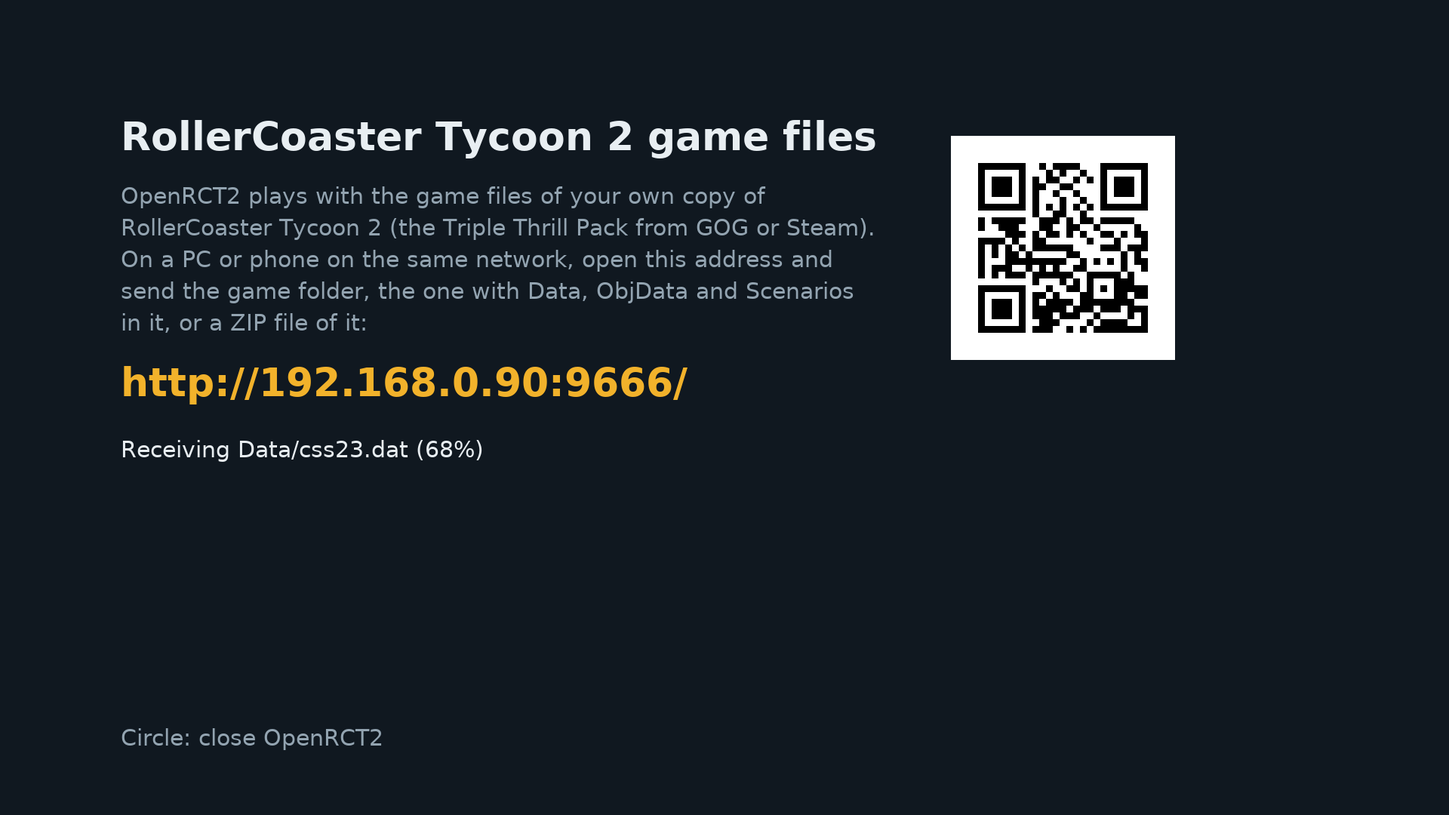
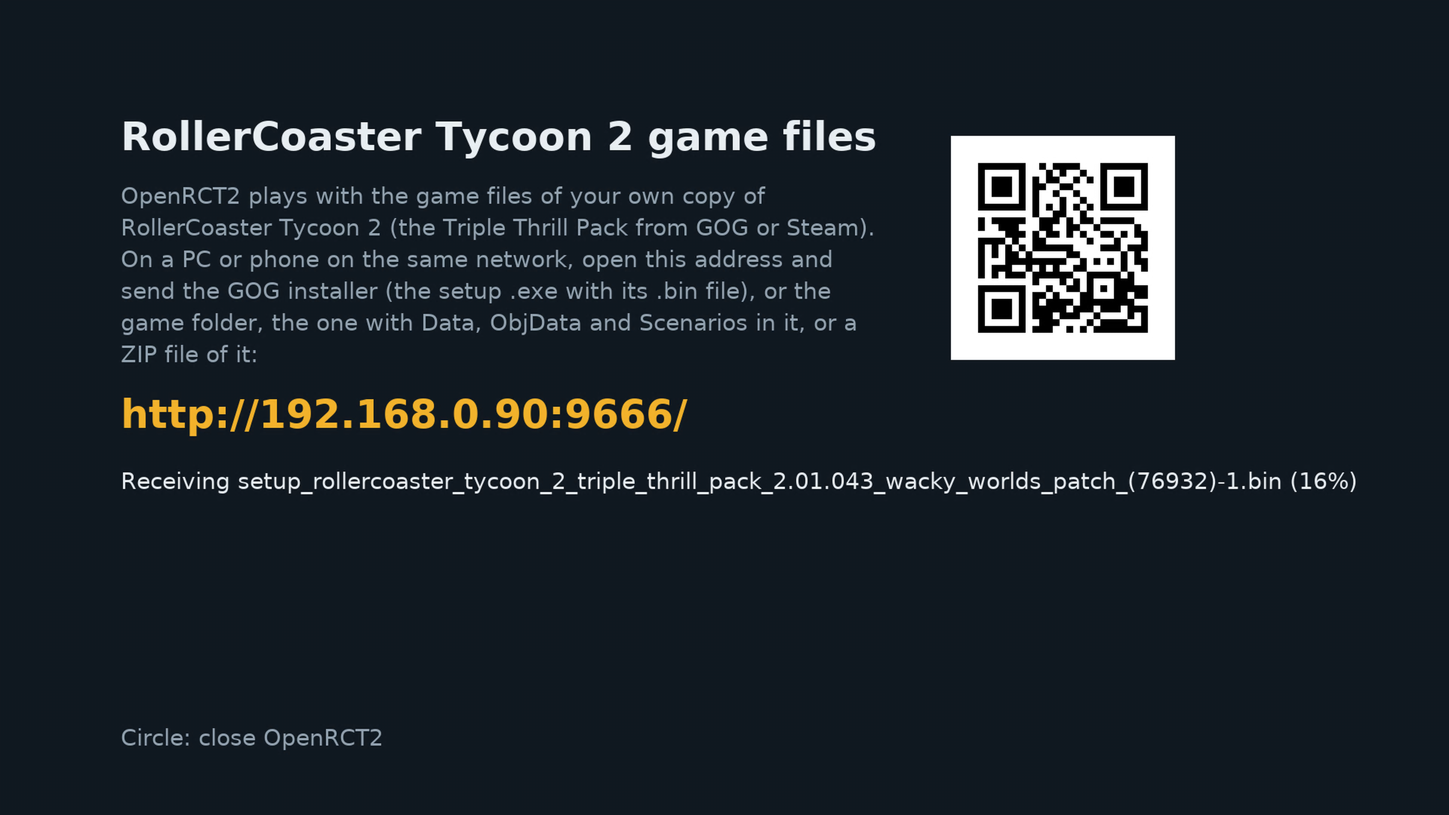
README, third-party notices, screenshots from the console, version 1.0.0
make release writes dist/PPSA99728.zip and its .sha256; the package carries THIRD_PARTY_NOTICES.md and liblzma's licence. contentVersion 01.000.000.

Changed region(s): [[0.0625, 0.3361, 0.9375, 0.6111], [0.6562, 0.1833, 0.8125, 0.4278], [0.5625, 0.3972, 0.5938, 0.4278]]

diff --git a/DEVELOPMENT.md b/DEVELOPMENT.md
@@ -10,7 +10,7 @@ from a PC (2457 files, 671 MB, in about 2.5 minutes), after which the game start
 played with the DualSense alone (Controls, below); console tests drove the menus, lists, tabs,
 radial menus, track and path building and scenery placement with it. Not yet confirmed on
 hardware: how the controls feel in a person's hands, typing in the IME dialog (it opens), a ZIP
-import, and an import from a phone's browser. The sound works (Rijad heard it, 2026-10-05). The
+import, and an import from a phone's browser. The sound works (heard on a TV, 2026-10-05). The
 controller is the only input: mice, USB keyboards and the TV remote are not read, and text comes
 from the on-screen keyboard.
 
@@ -22,15 +22,16 @@ from the on-screen keyboard.
 | `patches/openrct2/` | The port's changes to OpenRCT2 (`tools/export-patches.sh` writes them from the `ps5` branch) |
 | `patches/sdl/` | Changes to ps5-payload-dev's SDL (made in `.deps/sdl-dev`, a git copy, with `git format-patch`) |
 | `src/runtime/` | What every PS5 link gets (`libps5runtime.a`), the linker script, and lists for module stubs the SDK lacks |
-| `src/port/` | PS5 code compiled into the game: `main`, the import screen and its upload server and page, the console test harness |
+| `src/port/` | PS5 code compiled into the game: `main`, the import screen with its upload server and page and the GOG installer reader, the console test harness |
 | `sce_sys/` | `param.json` and the icon (the OpenRCT2 logo on a dark background) |
 | `test/` | Console test plans |
-| `screenshots/` | For showing the port: the title, the import screen and its page, a park (Six Flags Magic Mountain) with the button hints, both radial menus, a list moved through with the d-pad. Console captures halved (the game draws at 960x540 and doubles each pixel); the import screen at full size |
+| `screenshots/` | For showing the port, taken on the console on 2026-10-06: a looping coaster, wooden track built with the button hints, the park radial menu, the title, and the import screen receiving the GOG installer next to its page in a browser. PS5 screenshots (3840x2160 JPEG XR, decoded with WPF's `WmpBitmapDecoder`) halved to the game's 1920x1080; the page cropped to 16:9 |
 | `cmake/ps5.cmake` | CMake toolchain for the console |
 | `cmake/ps5-openrct2.cmake` | Hooked into OpenRCT2's project: adds `src/port`, qrcodegen, the generated headers and the static-only libraries |
 | `tools/ps5-cc`, `tools/ps5-c++`, `tools/ps5-link` | Compiler drivers for the console; any link produces a PS5 module |
 | `tools/build-*.sh`, `tools/package.sh` | Native tools, runtime, dependencies, host build, PS5 build, title folder |
 | `tools/deploy.py`, `console_test.py`, `send.py`, `klog.py`, `symbolize.sh` | Console side: upload, tests, sending game files, kernel log, crash frames |
+| `tools/test-inno.sh`, `inno-unpack.c` | The GOG installer reader built for the PC and checked against innoextract |
 | `docker/` | The build image |
 
 ## Build
@@ -56,8 +57,8 @@ update and looks for it in the data folder when there is no system documentation
    and the clean-room `libc.prx`.
 2. `tools/build-runtime.sh`: the CRT (the boilerplate's `app_crt.cpp`), `libps5runtime.a` and the
    system module stubs into `.deps/ps5`. Outputs are replaced only when they change.
-3. `tools/build-deps.sh`: zlib, libpng, zstd, libzip, Ogg, Vorbis, FLAC, nlohmann/json, ICU, SDL2
-   and qrcodegen, pinned and checked by SHA-256, into `.deps/ps5`. Each has a stamp in
+3. `tools/build-deps.sh`: zlib, libpng, zstd, libzip, liblzma (xz), Ogg, Vorbis, FLAC,
+   nlohmann/json, ICU, SDL2 and qrcodegen, pinned and checked by SHA-256, into `.deps/ps5`. Each has a stamp in
    `build/deps`; delete it to rebuild one (SDL after changing `patches/sdl`).
 4. `tools/build-ps5.sh`: the import screen's headers (`build/gen`: the page from
    `tools/embed-file.py`, the fonts from `tools/make-font.py`), then OpenRCT2 with
@@ -177,6 +178,10 @@ offers, instead of guessing from compile-only checks.
     `UiContext::Draw`, marking their area dirty each frame as the FPS counter does), and
     `WindowSceneryRaise`/`WindowSceneryCanRaise`: the controller's stepped version of holding Shift
     while placing scenery.
+13. While a radial menu is up: no pointer, no tooltips on its buttons, no park label under the
+    pointer (each could cover the name under the ring).
+14. The radial menus' disc and name band and the hints bar in the darkest shade twice over
+    (`paletteDarken3`; `paletteDarken2` read poorly on a TV), their text outlined.
 
 ## The port (`src/port`)
 
@@ -186,7 +191,7 @@ offers, instead of guessing from compile-only checks.
   selects SDL's software renderer (OpenRCT2 asks for an accelerated one), runs the import screen
   when the game files are missing, and runs OpenRCT2 with `/app0/data`, `/app0/rct2` and
   `/download0/user` (config, saves, caches; `downloadDataSize` 1024 MB).
-- `import_screen.c`, `upload.c`, `upload.html`: importing the game files (below).
+- `import_screen.c`, `upload.c`, `upload.html`, `inno.c`: importing the game files (below).
 - `console_test.c`, `pad_script.c`: the test harness (below).
 
 ## Controls
@@ -221,34 +226,70 @@ thumps when a piece is built.
 Settings: the game's Controls options, *Gamepad deadzone* and *Gamepad sensitivity*, apply to the
 pointer too (the sensitivity scales its speed: 1.5 is the default).
 
+The interface stays at twice its size (Display options, *UI scale*); larger was tried on 2026-10-06
+and dropped. RCT2's windows are laid out for a screen at least 480 lines tall, and OpenRCT2's
+footpath window needs about 525: at 2.5 (768x432) the ride construction window's Entrance button
+sits under the money panel and the footpath window's bridge, tunnel and area buttons fall below the
+screen; at 2.25 (853x480) the area button is still under the money panel. Any fractional scale also
+halves the frame rate (30 instead of 60): OpenRCT2 draws the screen at the next whole multiple and
+SDL's software renderer shrinks it with its linear filter. Scaling by area on the CPU in one pass
+(a window pixel across two screen pixels mixes them) brought it back to 60 at about 2 ms a frame,
+if a larger interface is ever wanted.
+
 ## Importing the game files
 
 When `/app0/rct2/Data/g1.dat` is missing, the title shows a screen with an address
-(`http://<console>:9666/`, or the next free port) and its QR code. The page there takes the
-RollerCoaster Tycoon 2 folder (chosen or dropped; only files below Data, ObjData, Scenarios,
-Tracks and Landscapes are sent) or a ZIP file of it (for phones, which cannot send folders), and
+(`http://<console>:9666/`, or the next free port) and its QR code. The page there takes the GOG
+installer (its setup `.exe` and `.bin` file, chosen or dropped together, or the download folder
+dropped), the RollerCoaster Tycoon 2 folder (chosen or dropped; only files below Data, ObjData,
+Scenarios, Tracks and Landscapes are sent) or a ZIP file of it (phones cannot send folders), and
 ends with `POST /done`. The server stores files below those folders only, each path part a plain
-name, as `<path>.upload` renamed when complete; the screen unpacks ZIP files with libzip under the
-same rules. The server handles one request at a time but keeps up to eight connections waiting
+name, as `<path>.upload` renamed when complete; ZIP files and the installer's `.exe` and `.bin`
+files go at the top of the game folder, under their own names. The screen unpacks ZIP files with
+libzip under the same rules, and the installer, once the page has finished, on a thread with
+`inno.c`, then deletes it (unless a `.bin` file is missing: sending it tries again).
+
+`inno.c` reads Inno Setup installers (Unicode, data versions 5.5.0 to 6.4), after innoextract's
+reading of the format: the offset table among the `.exe`'s resources, the CRC-checked,
+LZMA-compressed headers, the entries up to the file list, the data entries, then each chunk of
+the `.bin` slices (zlib, LZMA1 or LZMA2 with liblzma) read once, front to back, every file checked
+against its SHA-1. GOG's installer for the Triple Thrill Pack (Inno Setup 5.6.2, GOG Galaxy style)
+keeps every game file under `{tmp}`, named after its MD5, in one or more parts, each deflated
+again; the real name and the parts are in calls to its install script, `before_install('<MD5>',
+'<path>', <parts>)` and `after_install('<MD5>', <size>, <inflated size>)`, as innoextract's
+`cli/goggalaxy.cpp` reads them. Password-protected (encrypted) and bzip2 installers are refused
+with a message. `tools/test-inno.sh` builds the reader for Linux and compares what it unpacks with
+innoextract (all 2457 game files of that installer match, 515 MB). On the console the 554 MB
+installer arrives in about 50 s and unpacks in about 85 s, against 2.5 to 7 minutes for sending the
+2457 files of the folder. Reading and inflating are nothing next to creating files in the title's
+folder: in one 174 s unpack, creating them took 85 s (about 35 ms each), writing 65 s (mostly
+the first write of each small file) and renaming `.upload` files 19 s. So the reader writes in
+place, and `unfinished-import` in the game folder, there from the start of an unpack until it
+succeeds, keeps the game from counting a half-unpacked folder (`Data/g1.dat` comes early) as
+complete; game files sent as a folder or ZIP file remove it. The screen clears its notes when a
+new send starts. The server handles one request at a time but keeps up to eight connections waiting
 and serves whichever sends a request first: browsers open connections before they need them and
 may leave them quiet, and waiting on one of those (up to 30 s) used to stall the page and every
 upload. The game starts once `Data/g1.dat` is there and the sender has finished. Circle closes
 the title; the screen has no pointer. The screen draws with SDL and fonts rendered from DejaVu Sans at build time
 (`tools/make-font.py`), since OpenRCT2 cannot draw before the game's own files exist.
 
-`uv run --no-project python tools/send.py http://192.168.0.90:9666/ E:/scratch/rct2` sends a folder
-the way the page does (`--only` sends some files, a `.zip` path sends that file).
+`uv run --no-project python tools/send.py http://192.168.0.90:9666/ path/to/rct2` sends a folder
+the way the page does (`--only` sends some files, a `.zip` path sends that file, an `.exe` path sends
+the installer with its `.bin` files).
 
 ## On the console
 
 `uv run --no-project python tools/deploy.py` uploads `dist/PPSA99728` to `/data/homebrew/PPSA99728`,
 where ShadowMountPlus registers it; `--eboot` uploads only the executable (what most iterations
-need), `--rct2 E:/scratch/rct2` also uploads the game folders as `rct2/`. `tools/deploy.py cat
+need), `--rct2 path/to/rct2` also uploads the game folders as `rct2/`. `tools/deploy.py cat
 PATH` prints a console file, e.g. `/data/homebrew/PPSA99728/openrct2.log`.
 
 `uv run --no-project --with pillow python tools/console_test.py test/console-boot.cfg` writes the
 plan as `test.cfg` into the title folder, launches the title with the `rct2launch` payload
-(`tools/launcher`, installed into `/data/pldmgr/payloads/rct2launch/`), pulls captured frames over
+(`tools/launcher`, installed into `/data/pldmgr/payloads/rct2launch/`; through the PS5Upload
+engine's launch route when the Payload Manager's port is dead after rest mode, which does not close
+a running title first), pulls captured frames over
 TCP port 9119 into `build/test/run/` as PNG, then the log when the plan's frame limit ends the
 game, and deletes `test.cfg`. Frames come from SDL's window surface before it is tiled for scanout,
 so they need no de-tiling. Plan lines:
@@ -260,7 +301,7 @@ so they need no de-tiling. Plan lines:
 | `frames N` | exit after N frames |
 | `input SCRIPT` | controller input: `START:INPUTS:COUNT` steps separated by `;`, inputs joined by `+` (button names, `LX=`/`LY=`/`RX=`/`RY=` tilts from -127 to 127, `TX=`/`TY=` a touchpad finger) |
 | `point N X Y` | put the pointer at window pixel X, Y at frame N |
-| `game PATH`, `remove PATH` | use another game folder (an empty one shows the import screen); delete a test folder |
+| `game PATH`, `remove PATH` | use another game folder (an empty one shows the import screen); delete a test folder or a file (under `/app0` or `/download0`), before the game starts |
 | `list PATH`, `stat PATH`, `realpath PATH` | log what the sandbox says |
 | `arg ARGUMENT` | add to OpenRCT2's command line, e.g. `--verbose` |
 
@@ -271,9 +312,12 @@ scrolling), `console-save`, `console-filemenu`, `console-perf`, `console-import`
 `console-dpad-game` (toolbar, tabs, closing), `console-radial`, `console-ime` (a text box asks for
 the on-screen keyboard), `console-track` (a miniature railway from the radial menu to built
 pieces), `console-path` (a bridge path) and `console-scenery`. Most
-start the first scenario by pointing at its button (`point`), and assume the title screen is up by
-frame 700, which holds when the object index exists (the first start after `reset` takes longer).
-`reset` deletes the player's own saves and settings on the console: use it only for first-run tests.
+start the first scenario by pointing at its button (`point`, Electric Fields while the scenario
+list remembers the RollerCoaster Tycoon 2 tab, `scenarioselect_last_tab = 3`), and assume the title screen is up by frame 700, which holds
+when the object index exists (the first start after `reset` takes longer). `reset` deletes the
+player's own saves and settings on the console: use it only for first-run tests. To change only the
+settings, `remove /download0/user/config.ini` starts over with the first-run config (the changelog
+opens once, and the scenario list forgets its tab).
 
 Crashes: start klogsrv (`GET :8084/repository_install?filename=klogsrv_v0.9.elf`, then
 `GET :8084/loadpayload:klogsrv_v0.9.elf`; not autoloaded, gone after a reboot) and record it with
@@ -299,14 +343,14 @@ report's list of loaded modules shows which imports can be null.
   took about 7 minutes again (1.6 MB/s). A probe (100 to 150 requests on fresh connections) put a
   4 KB upload at 31 ms but a 120 KB one at 62 ms median, 126 to 146 ms mean, up to 377 ms, with
   the old server and the new one alike, so the console's writes stalled, not the server. Reading
-  the 2457 files from `E:` (a 5400 rpm disk) also takes about 5 minutes when they are not cached.
+  the 2457 files from a 5400 rpm disk also takes about 5 minutes when they are not cached.
 - Rest mode (the TV turned off) stops a running test; the payloads' listening sockets die with it.
 
 ## Game data
 
-RCT2 from the GOG Triple Thrill Pack installer, extracted with `innoextract --gog` (in the build
-image) to `E:\scratch\rct2`: `Data` (with `g1.dat`), `ObjData` (2122 objects), `Scenarios` (57),
-`Tracks`, `Landscapes`, about 680 MB. Never commit or publish any of it.
+Tested with RCT2 from the GOG Triple Thrill Pack installer (2.01.043), extracted with `innoextract
+--gog` (in the build image) for the folder tests: `Data` (with `g1.dat`), `ObjData` (2122
+objects), `Scenarios` (57), `Tracks`, `Landscapes`, about 680 MB. Never commit or publish any of it.
 
 ## External code (pinned)
 
@@ -315,7 +359,9 @@ image) to `E:\scratch\rct2`: `Data` (with `g1.dat`), `ObjData` (2122 objects), `
 - [ps5-native-app-boilerplate](https://github.com/blackbearreloaded/ps5-native-app-boilerplate)
   `b1315a9` (GPL-3.0-or-later): `ps5-native-tool`, `libc.prx`, `app_crt.cpp`, the PIE linker
   script, and the PS5 payload SDK v0.42 it fetches (libc++, libc++abi, libunwind)
-- zlib 1.3.2, libpng 1.6.59, zstd 1.5.7, libzip 1.11.4, libogg 1.3.6, libvorbis 1.3.7, FLAC 1.5.0,
-  nlohmann/json 3.11.3, ICU 78.3, qrcodegen 1.8.0, DejaVu Sans (rendered into the import screen's
-  fonts)
+- zlib 1.3.2, libpng 1.6.59, zstd 1.5.7, libzip 1.11.4, xz 5.8.1 (liblzma, 0BSD), libogg 1.3.6,
+  libvorbis 1.3.7, FLAC 1.5.0, nlohmann/json 3.11.3, ICU 78.3, qrcodegen 1.8.0, DejaVu Sans
+  (rendered into the import screen's fonts)
+- The installer reader follows [innoextract](https://github.com/dscharrer/innoextract)'s reading of
+  the Inno Setup format (zlib licence); no code of it is used
 - The upload server and page are the DOOM port's, reworked

diff --git a/THIRD_PARTY_NOTICES.md b/THIRD_PARTY_NOTICES.md
@@ -1,0 +1,64 @@
+# Third-party notices
+
+Everything in this project that came from someone else, what it is used for, and its license. The
+release package carries this file and the license texts in `PPSA99728/licenses/`.
+
+RollerCoaster Tycoon 2 itself is not part of this project or its package: the player sends the game
+files of their own copy to the console.
+
+## Shipped in the release
+
+| Component | Used as | License |
+| --- | --- | --- |
+| [OpenRCT2](https://github.com/OpenRCT2/OpenRCT2) v0.5.5, the OpenRCT2 developers | The game, with the changes in `patches/openrct2` (listed in `DEVELOPMENT.md`); its data folder (languages, `g2.dat`, fonts, palettes, shaders, scenario patches) as `data/` | GNU GPL v3 (`licenses/OpenRCT2-GPL-3.0.txt`) |
+| [OpenRCT2 objects](https://github.com/OpenRCT2/objects) v1.7.11 | `data/object` | CC BY 4.0 (https://creativecommons.org/licenses/by/4.0/) |
+| [OpenRCT2 title sequences](https://github.com/OpenRCT2/title-sequences) v0.4.26 | `data/sequence` | CC BY 4.0 (https://creativecommons.org/licenses/by/4.0/) |
+| [OpenMusic](https://github.com/OpenRCT2/OpenMusic) v1.6.1 | The music asset packs in `data/assetpack` | CC BY-SA 4.0 (https://creativecommons.org/licenses/by-sa/4.0/) |
+| [OpenSoundEffects](https://github.com/OpenRCT2/OpenSoundEffects) v1.0.6 | The sound asset pack in `data/assetpack` | MIT (below) |
+| [SDL](https://github.com/ps5-payload-dev/SDL) 2, ps5-payload-dev's PS5 fork at `ee4c47dc`, with the changes in `patches/sdl` | Video, audio, controller and on-screen keyboard | zlib (`licenses/SDL2.txt`) |
+| [ICU](https://icu.unicode.org/) 78.3 | Text conversion and shaping | Unicode license (`licenses/ICU.txt`) |
+| [zlib](https://zlib.net/) 1.3.2 | Compressed park files, PNG, ZIP and the GOG installer's data | zlib (`licenses/zlib.txt`) |
+| [libpng](http://www.libpng.org/) 1.6.59 | Images | libpng license (`licenses/libpng.txt`) |
+| [zstd](https://github.com/facebook/zstd) 1.5.7 | Park files | BSD (`licenses/zstd.txt`) |
+| [libzip](https://libzip.org/) 1.11.4 | ZIP files of the game folder, OpenRCT2's own archives | BSD 3-Clause (`licenses/libzip.txt`) |
+| [xz](https://tukaani.org/xz/) 5.8.1, liblzma | LZMA and LZMA2 decoding in the GOG installer reader | BSD Zero Clause (`licenses/liblzma.txt`) |
+| [libogg](https://xiph.org/ogg/) 1.3.6, [libvorbis](https://xiph.org/vorbis/) 1.3.7, [FLAC](https://xiph.org/flac/) 1.5.0 | Music and sound | BSD (`licenses/libogg.txt`, `licenses/libvorbis.txt`, `licenses/FLAC.txt`) |
+| [nlohmann/json](https://github.com/nlohmann/json) 3.11.3 | JSON | MIT (`licenses/nlohmann-json.txt`) |
+| [QR Code generator](https://www.nayuki.io/page/qr-code-generator-library) 1.8.0, Project Nayuki | The QR code of the import screen's address | MIT (`licenses/qrcodegen.txt`) |
+| [DejaVu fonts](https://dejavu-fonts.github.io/) | The import screen's text, rendered into bitmaps at build time | Bitstream Vera and public domain (`licenses/DejaVu-fonts.txt`) |
+| `libc.prx` from [ps5-native-app-boilerplate](https://github.com/blackbearreloaded/ps5-native-app-boilerplate), BlackBearReloaded | Runtime module the PS5 loader requires next to a native title (`sce_module/libc.prx`), built from its source at commit `b1315a9` | GNU GPL v3 or later (`licenses/libc-prx-GPL-3.0.txt`) |
+
+## Used to build
+
+| Component | Used as | License |
+| --- | --- | --- |
+| [ps5-native-app-boilerplate](https://github.com/blackbearreloaded/ps5-native-app-boilerplate) `b1315a9` | `ps5-native-tool` (PIE to PS5 module conversion, FSELF signing), its PIE linker script and C runtime start file, fetched by `tools/fetch-native-tools.sh` | GNU GPL v3 or later |
+| [PS5 Payload SDK](https://github.com/ps5-payload-dev/sdk) v0.42, John Törnblom | Headers, system import stubs, `prospero-lld`, libc++, libc++abi and libunwind | GNU GPL v3, with the LLVM runtime libraries under Apache 2.0 with LLVM exception |
+| [LLVM/Clang](https://llvm.org/) 18 | C and C++ compiler for the PS5 target | Apache 2.0 with LLVM exception |
+| [innoextract](https://constexpr.org/innoextract/), Daniel Scharrer | Reference for the Inno Setup installer format and GOG Galaxy's file parts; `src/port/inno.c` follows its reading of the format but copies no code, and `tools/test-inno.sh` compares the two | zlib |
+
+## OpenSoundEffects license
+
+```
+MIT License
+
+Copyright (c) 2019 OpenRCT2
+
+Permission is hereby granted, free of charge, to any person obtaining a copy
+of this software and associated documentation files (the "Software"), to deal
+in the Software without restriction, including without limitation the rights
+to use, copy, modify, merge, publish, distribute, sublicense, and/or sell
+copies of the Software, and to permit persons to whom the Software is
+furnished to do so, subject to the following conditions:
+
+The above copyright notice and this permission notice shall be included in all
+copies or substantial portions of the Software.
+
+THE SOFTWARE IS PROVIDED "AS IS", WITHOUT WARRANTY OF ANY KIND, EXPRESS OR
+IMPLIED, INCLUDING BUT NOT LIMITED TO THE WARRANTIES OF MERCHANTABILITY,
+FITNESS FOR A PARTICULAR PURPOSE AND NONINFRINGEMENT. IN NO EVENT SHALL THE
+AUTHORS OR COPYRIGHT HOLDERS BE LIABLE FOR ANY CLAIM, DAMAGES OR OTHER
+LIABILITY, WHETHER IN AN ACTION OF CONTRACT, TORT OR OTHERWISE, ARISING FROM,
+OUT OF OR IN CONNECTION WITH THE SOFTWARE OR THE USE OR OTHER DEALINGS IN THE
+SOFTWARE.
+```

diff --git a/README.md b/README.md
@@ -1,0 +1,91 @@
+<p align="center"><img src="sce_sys/icon0.png" width="160" alt="OpenRCT2 icon"></p>
+
+# OpenRCT2 for PS5 (native)
+
+[OpenRCT2](https://openrct2.io/), the open-source re-implementation of RollerCoaster Tycoon 2,
+running as a native PS5 title: its own home-screen icon, 1080p at 60 frames per second, music and
+sound, and made to be played with the DualSense alone. The left stick or the touchpad moves a
+pointer, the d-pad jumps between buttons and through every list, Options and Triangle open radial
+menus of the build tools and the park windows, track and paths are built on the d-pad, and the
+bottom of the screen shows what each button does at that moment. Bring your own copy of
+RollerCoaster Tycoon 2: on its first start the game takes the GOG installer, the game folder or a
+ZIP file of it, sent from a PC or phone browser.
+
+<p align="center">
+  <img src="screenshots/coaster.png" width="49%" alt="A looping coaster through the trees, its station queue full of guests">
+  <img src="screenshots/track-building.png" width="49%" alt="Building a wooden roller coaster, the controller's buttons shown at the bottom">
+</p>
+<p align="center">
+  <img src="screenshots/park-menu.png" width="49%" alt="The park windows in a radial menu over the whole park">
+  <img src="screenshots/title.png" width="49%" alt="The OpenRCT2 title screen">
+</p>
+
+## Requirements
+
+- A jailbroken PS5 with kstuff (fake-signed executables) and
+  [ShadowMountPlus](https://github.com/drakmor/ShadowMountPlus). Tested on firmware 13.00.
+- Your own RollerCoaster Tycoon 2: the Triple Thrill Pack from GOG (its offline installer) or the
+  game folder of an installed copy, from GOG or Steam.
+
+## Install
+
+1. Download `PPSA99728.zip` from the [releases](../../releases) and check it against
+   `PPSA99728.zip.sha256`.
+2. Extract it and copy the `PPSA99728` folder to `/data/homebrew/` (FTP, ps5upload or USB).
+3. ShadowMountPlus registers it within a few seconds and **OpenRCT2** appears on the home screen.
+
+## Your game files
+
+The first time it starts, OpenRCT2 shows an address (for example `http://192.168.1.50:9666/`) and
+its QR code. Open it in a browser on a PC or phone on the same network and send one of these:
+
+- **The GOG installer.** The setup `.exe` and its `.bin` file from GOG's offline installer, chosen
+  or dropped together; dropping the whole download folder works too. The console takes the game
+  files out of it and then deletes it. On a wired PS5 the installer arrives in about a minute and
+  is unpacked in about a minute and a half.
+- **The game folder**, the one with `Data`, `ObjData`, `Scenarios`, `Tracks` and `Landscapes` in
+  it. Only those folders are sent.
+- **A ZIP file of that folder**, for phones, which cannot send folders.
+
+Both the page and the TV show what arrived, and the game starts by itself once the files are
+complete. Circle closes it in the meantime.
+
+<p align="center">
+  <img src="screenshots/import-screen.png" width="49%" alt="The import screen on the TV, receiving the GOG installer">
+  <img src="screenshots/upload-page.png" width="49%" alt="The same transfer on the page in a PC browser">
+</p>
+
+## Controls
+
+The buttons act on what is under the pointer, and the middle of the bottom toolbar lists what they
+do right now.
+
+| Input | In the park | Over a window | Building track or a bridge path |
+| --- | --- | --- | --- |
+| Left stick | The pointer; pushed against the screen's edge it scrolls the park | | |
+| Touchpad | The pointer, like a laptop's; a click is Cross | | |
+| D-pad | Jump to the nearest button that way (up reaches the toolbar) | Button to button; through lists, sliders and dropdowns | Turn left or right, slope up or down |
+| Cross | Click, hold to drag | Click | Build the piece (held, keeps building) |
+| Square | Remove (scenery, paths) | Right click | Take the last piece away |
+| Circle | Leave the tool and close its window | Close the dropdown or the window | Stop building |
+| Triangle | Park windows; rotate what is being placed | | Chain lift |
+| Options | Build tools | | |
+| L1 / R1 | Rotate the view | Previous / next tab | Bank left / right |
+| L2 / R2 | Zoom out / in, towards the pointer | | |
+| Right stick | Scroll the park | Scroll the list under the pointer | |
+| L3 / R3 | Pause / rotate the view | | |
+
+Options and Triangle open their radial menus in the middle of the screen: the build tools (rides,
+paths, scenery, land, water, clearing scenery) and the park windows (rides, park, guests, staff,
+finances, research, messages, map). Hold the button, point with the stick and let go, or tap it,
+point and press Cross. While placing scenery, up and down on the d-pad raise and lower it. Text
+boxes open the PS5 keyboard. The game's *Gamepad deadzone* and *Gamepad sensitivity* options apply
+to the pointer too. Saves and settings stay on the console.
+
+Multiplayer and the other online features are left out.
+
+## Building and internals
+
+See [DEVELOPMENT.md](DEVELOPMENT.md) for the build, the changes to OpenRCT2 and SDL, the console
+test loop and the PS5 behaviour learned along the way. Licenses and credits: [LICENSE](LICENSE)
+(GPL v3, as OpenRCT2) and [THIRD_PARTY_NOTICES.md](THIRD_PARTY_NOTICES.md).
